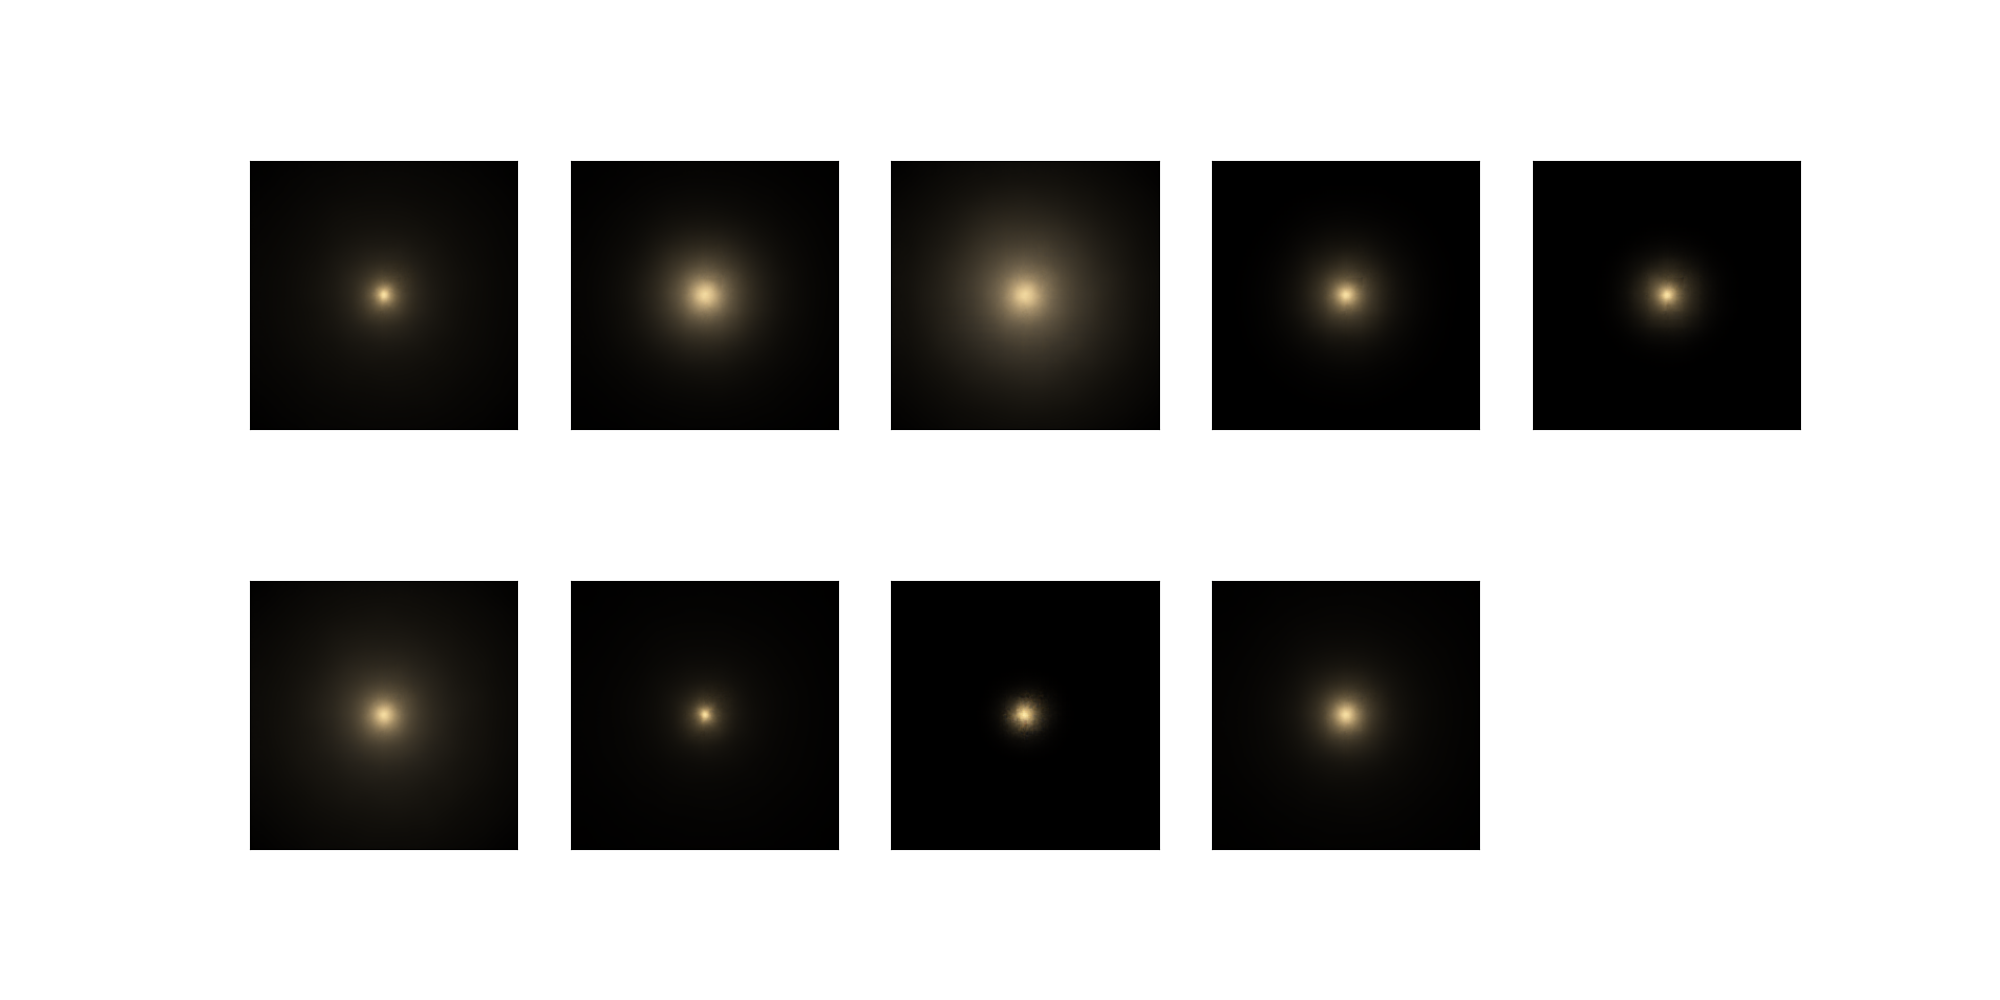
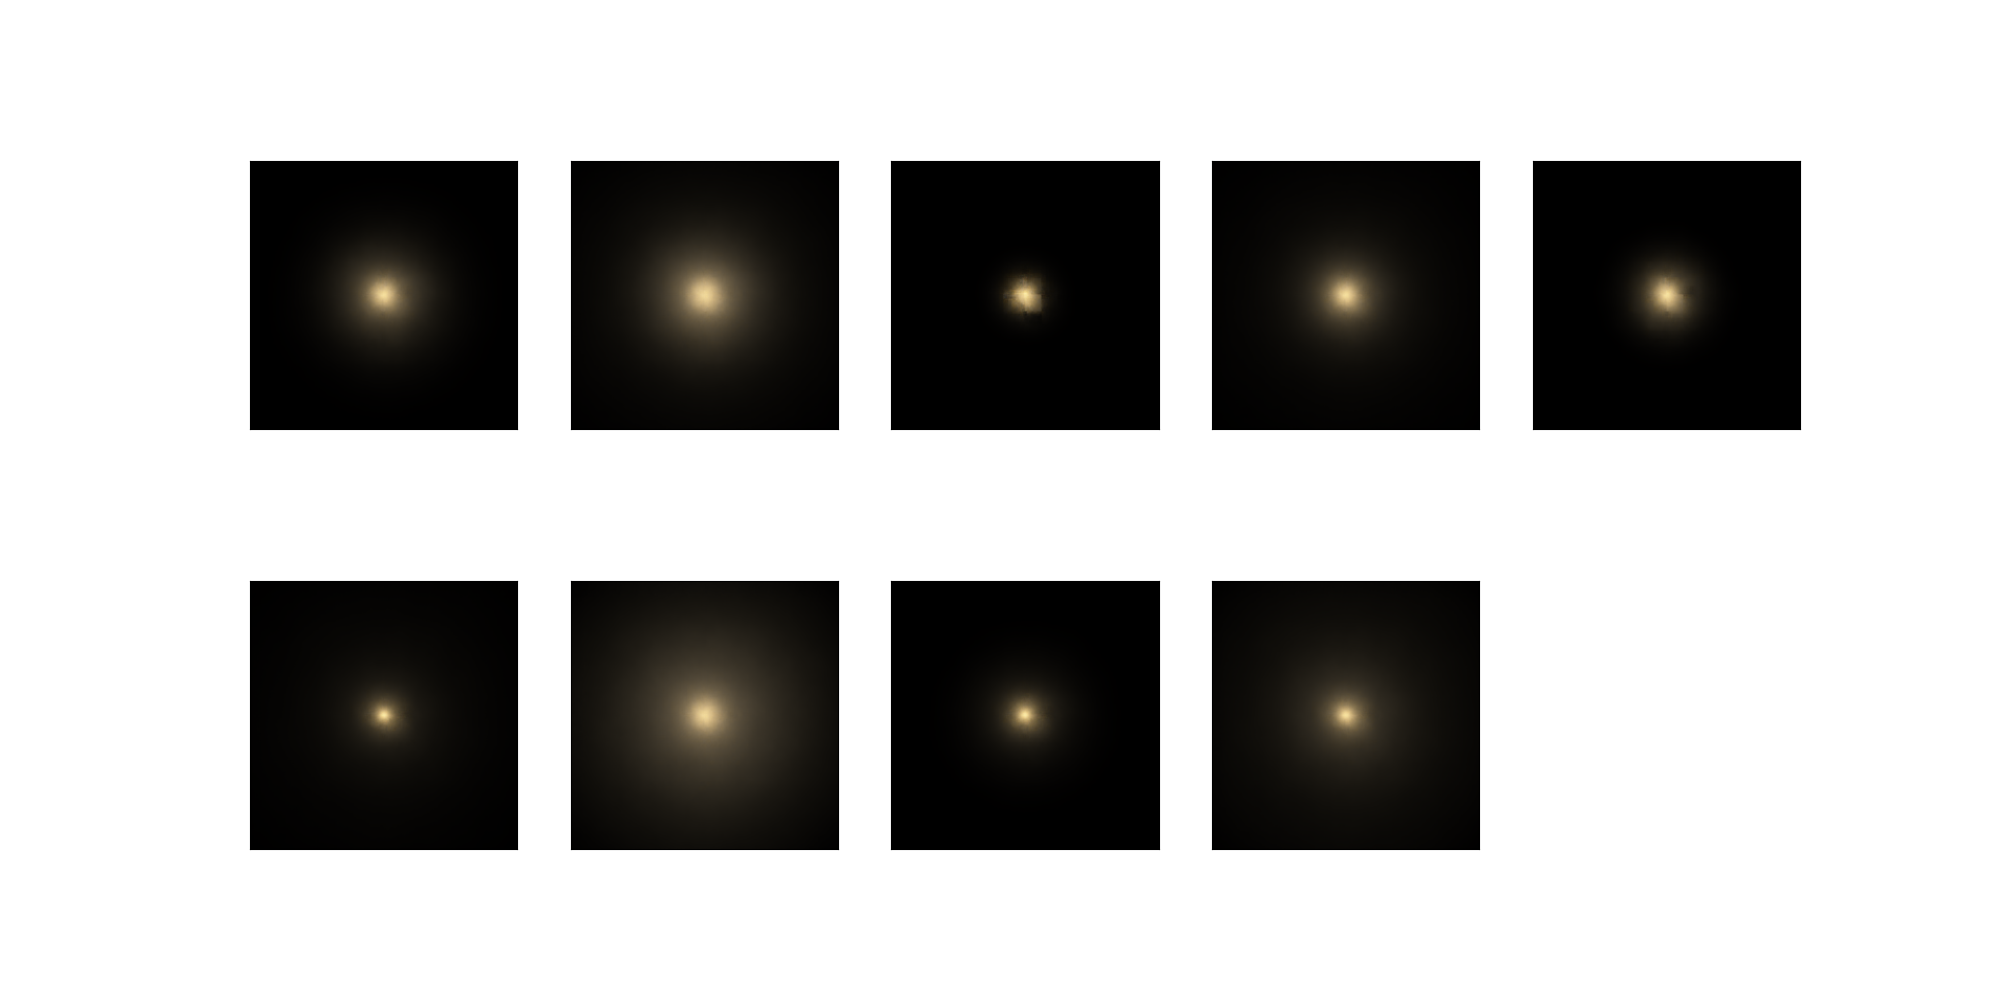
Code

diff --git a/property_comparison.py b/property_comparison.py
@@ -1,6 +1,6 @@
 import numpy as np
 from matplotlib import pyplot as plt
-# import seaborn as sns
+import seaborn as sns
 import pandas as pd
 # from tensorflow.keras.layers import Conv2D, Conv2DTranspose, MaxPooling2D, UpSampling2D, Dense, Flatten, Reshape
 # import keras
@@ -16,35 +16,35 @@ all_images = []
 # load the supplemental file into a dataframe
 df = pd.read_csv("stab3510_supplemental_file/table1.csv", comment="#")
 
-print(df.shape)
+# print(df.shape)
 
-# loop through each galaxy in the supplmental file
-for i, galaxy in enumerate(df["GalaxyID"].tolist()):
-
-    filename = "galface_" + str(galaxy) + ".png"
-
-    image = mpimg.imread("/cosma7/data/Eagle/web-storage/RefL0100N1504_Subhalo/" + filename)
-    all_images.append(image)
-
-
-print(np.array(all_images).shape)
-
-
-
-
-
-
-# # # load the extracted features
-# extracted_features = np.load("Features/9_features_new.npy")
+# # loop through each galaxy in the supplmental file
+# for i, galaxy in enumerate(df["GalaxyID"].tolist()):
+#
+#     filename = "galface_" + str(galaxy) + ".png"
+#
+#     image = mpimg.imread("/cosma7/data/Eagle/web-storage/RefL0100N1504_Subhalo/" + filename)
+#     all_images.append(image)
 #
 #
-# extracted_features = np.flipud(np.rot90(extracted_features))
-#
-# print(extracted_features.shape)
+# print(np.array(all_images).shape)
 
-# # load the two excel files into dataframes
-# df1 = pd.read_csv("stab3510_supplemental_file/table1.csv", comment="#")
-# df2 = pd.read_csv("stab3510_supplemental_file/table2.csv", comment="#")
+
+
+
+
+
+# load the extracted features
+extracted_features = np.load("Features/9_features_new.npy")
+
+
+extracted_features = np.flipud(np.rot90(extracted_features))
+
+print(extracted_features.shape)
+
+# load the two excel files into dataframes
+df1 = pd.read_csv("stab3510_supplemental_file/table1.csv", comment="#")
+df2 = pd.read_csv("stab3510_supplemental_file/table2.csv", comment="#")
 
 
 
@@ -66,22 +66,24 @@ print(np.array(all_images).shape)
 
 
 
-# ab_magnitude = df1["galfit_mag"]
-# mass = df2["galfit_lmstar"]
-# semi_major = (df1["galfit_re"] + df2["galfit_re"]) / 2
-# sersic = (df1["galfit_n"] + df2["galfit_n"]) / 2
-# axis_ratio = (df1["galfit_q"] + df2["galfit_q"]) / 2
-# position_angle = (df1["galfit_PA"] + df2["galfit_PA"]) / 2
-#
-#
-#
-#
-# # load the extracted features
-# extracted_features = np.load("Features/9_features_new.npy")
-#
-# # k means clustering for the extracted features
-# kmeans = KMeans(n_clusters=9, random_state=0, n_init='auto')
-# clusters = kmeans.fit_predict(extracted_features)
+ab_magnitude = df1["galfit_mag"]
+mass = df2["galfit_lmstar"]
+semi_major = (df1["galfit_re"] + df2["galfit_re"]) / 2
+sersic = (df1["galfit_n"] + df2["galfit_n"]) / 2
+axis_ratio = (df1["galfit_q"] + df2["galfit_q"]) / 2
+position_angle = (df1["galfit_PA"] + df2["galfit_PA"]) / 2
+
+
+
+
+
+
+# k means clustering for the extracted features
+kmeans = KMeans(n_clusters=9, random_state=0, n_init='auto')
+clusters = kmeans.fit_predict(extracted_features)
+
+print(clusters.shape)
+print(clusters)
 
 
 
@@ -91,7 +93,7 @@ print(np.array(all_images).shape)
 
 
 # print(df)
-#
+
 # kws = dict(s=5, linewidth=0)
 #
 # sns.pairplot(df, corner=True, hue="Category", plot_kws=kws, palette="colorblind")
@@ -103,30 +105,32 @@ print(np.array(all_images).shape)
 
 
 
-# fig, axs = plt.subplots(6, 9, figsize=(25,20))
-#
-# for i in range(0, 9):
-#
-#     title = "Feature " + str(i+1)
-#     axs[0, i].set_title(title)
-#
-#     axs[0, i].scatter(extracted_features[i], ab_magnitude, s=2, hue=clusters)
-#     axs[1, i].scatter(extracted_features[i], mass, s=2, hue=clusters)
-#     axs[2, i].scatter(extracted_features[i], semi_major, s=2, hue=clusters)
-#     axs[3, i].scatter(extracted_features[i], sersic, s=2, hue=clusters)
-#     axs[4, i].scatter(extracted_features[i], axis_ratio, s=2, hue=clusters)
-#     axs[5, i].scatter(extracted_features[i], position_angle, s=2, hue=clusters)
-#
-# axs[0, 0].set_ylabel("AB Magnitude")
-# axs[1, 0].set_ylabel("Stellar Mass")
-# axs[2, 0].set_ylabel("Semi-Major Axis")
-# axs[3, 0].set_ylabel("Sersic Index")
-# axs[4, 0].set_ylabel("Axis Ratio")
-# axs[5, 0].set_ylabel("Position Angle")
-#
-#
-# plt.savefig("Plots/9_feature_property_comparison_clusters")
-# plt.show()
+fig, axs = plt.subplots(6, 9, figsize=(25,20))
+
+for i in range(0, 9):
+
+    title = "Feature " + str(i+1)
+    axs[0, i].set_title(title)
+
+    sns.scatterplot(ax=axs[0, i], x=extracted_features[i], y=ab_magnitude)
+
+    # axs[0, i].scatter(extracted_features[i], ab_magnitude, s=2)
+    # axs[1, i].scatter(extracted_features[i], mass, s=2)
+    # axs[2, i].scatter(extracted_features[i], semi_major, s=2)
+    # axs[3, i].scatter(extracted_features[i], sersic, s=2)
+    # axs[4, i].scatter(extracted_features[i], axis_ratio, s=2)
+    # axs[5, i].scatter(extracted_features[i], position_angle, s=2)
+
+axs[0, 0].set_ylabel("AB Magnitude")
+axs[1, 0].set_ylabel("Stellar Mass")
+axs[2, 0].set_ylabel("Semi-Major Axis")
+axs[3, 0].set_ylabel("Sersic Index")
+axs[4, 0].set_ylabel("Axis Ratio")
+axs[5, 0].set_ylabel("Position Angle")
+
+
+plt.savefig("Plots/9_feature_property_comparison_clusters")
+plt.show()
 
 
 

diff --git a/k_clustering.py b/k_clustering.py
@@ -72,80 +72,82 @@ extracted_features = np.load("Features/9_features_new.npy")
 kmeans = KMeans(n_clusters=9, random_state=0, n_init='auto')
 clusters = kmeans.fit_predict(extracted_features)
 
+print(clusters)
+print(clusters.shape)
 
 
 
 
-centers = kmeans.cluster_centers_
-# print(centers)
-
-for center in centers:
-    print(center)
-
-# print(centers[0])
-
-reconstructions = decoder.predict(centers)
-
-print(reconstructions[0])
-
-# create figure to hold subplots
-fig, axs = plt.subplots(2, 5, figsize=(20,10))
-
-axs[0, 0].imshow(reconstructions[0])
-axs[0, 0].get_xaxis().set_visible(False)
-axs[0, 0].get_yaxis().set_visible(False)
-
-axs[0, 1].imshow(reconstructions[1])
-axs[0, 1].get_xaxis().set_visible(False)
-axs[0, 1].get_yaxis().set_visible(False)
-
-axs[0, 2].imshow(reconstructions[2])
-axs[0, 2].get_xaxis().set_visible(False)
-axs[0, 2].get_yaxis().set_visible(False)
-
-axs[0, 3].imshow(reconstructions[3])
-axs[0, 3].get_xaxis().set_visible(False)
-axs[0, 3].get_yaxis().set_visible(False)
-
-axs[0, 4].imshow(reconstructions[4])
-axs[0, 4].get_xaxis().set_visible(False)
-axs[0, 4].get_yaxis().set_visible(False)
-
-axs[1, 0].imshow(reconstructions[5])
-axs[1, 0].get_xaxis().set_visible(False)
-axs[1, 0].get_yaxis().set_visible(False)
-
-axs[1, 1].imshow(reconstructions[6])
-axs[1, 1].get_xaxis().set_visible(False)
-axs[1, 1].get_yaxis().set_visible(False)
-
-axs[1, 2].imshow(reconstructions[7])
-axs[1, 2].get_xaxis().set_visible(False)
-axs[1, 2].get_yaxis().set_visible(False)
-
-axs[1, 3].imshow(reconstructions[8])
-axs[1, 3].get_xaxis().set_visible(False)
-axs[1, 3].get_yaxis().set_visible(False)
-
-axs[1, 4].set_axis_off()
-
-
-plt.savefig("Plots/9_cluster_reconstruction_new")
-plt.show()
-
-
-
-
-# df = pd.DataFrame(extracted_features, columns=["f1", "f2", "f3", "f4", "f5", "f6", "f7", "f8", "f9"])
-# df["Category"] = clusters
+# centers = kmeans.cluster_centers_
+# # print(centers)
+#
+# for center in centers:
+#     print(center)
+#
+# # print(centers[0])
+#
+# reconstructions = decoder.predict(centers)
+#
+# print(reconstructions[0])
+#
+# # create figure to hold subplots
+# fig, axs = plt.subplots(2, 5, figsize=(20,10))
+#
+# axs[0, 0].imshow(reconstructions[0])
+# axs[0, 0].get_xaxis().set_visible(False)
+# axs[0, 0].get_yaxis().set_visible(False)
+#
+# axs[0, 1].imshow(reconstructions[1])
+# axs[0, 1].get_xaxis().set_visible(False)
+# axs[0, 1].get_yaxis().set_visible(False)
+#
+# axs[0, 2].imshow(reconstructions[2])
+# axs[0, 2].get_xaxis().set_visible(False)
+# axs[0, 2].get_yaxis().set_visible(False)
+#
+# axs[0, 3].imshow(reconstructions[3])
+# axs[0, 3].get_xaxis().set_visible(False)
+# axs[0, 3].get_yaxis().set_visible(False)
+#
+# axs[0, 4].imshow(reconstructions[4])
+# axs[0, 4].get_xaxis().set_visible(False)
+# axs[0, 4].get_yaxis().set_visible(False)
+#
+# axs[1, 0].imshow(reconstructions[5])
+# axs[1, 0].get_xaxis().set_visible(False)
+# axs[1, 0].get_yaxis().set_visible(False)
+#
+# axs[1, 1].imshow(reconstructions[6])
+# axs[1, 1].get_xaxis().set_visible(False)
+# axs[1, 1].get_yaxis().set_visible(False)
+#
+# axs[1, 2].imshow(reconstructions[7])
+# axs[1, 2].get_xaxis().set_visible(False)
+# axs[1, 2].get_yaxis().set_visible(False)
+#
+# axs[1, 3].imshow(reconstructions[8])
+# axs[1, 3].get_xaxis().set_visible(False)
+# axs[1, 3].get_yaxis().set_visible(False)
+#
+# axs[1, 4].set_axis_off()
 #
 #
-# print(df)
-#
-# kws = dict(s=5, linewidth=0)
-#
-# sns.pairplot(df, corner=True, hue="Category", plot_kws=kws, palette="colorblind")
-#
-# plt.savefig("Plots/9_feature_clustering_new")
+# plt.savefig("Plots/9_cluster_reconstruction_new")
 # plt.show()
+
+
+
+
+df = pd.DataFrame(extracted_features, columns=["f1", "f2", "f3", "f4", "f5", "f6", "f7", "f8", "f9"])
+df["Category"] = clusters
+
+
+# print(df)
+
+kws = dict(s=5, linewidth=0)
+
+sns.pairplot(df, corner=True, hue="Category", plot_kws=kws, palette="colorblind")
+
+plt.savefig("Plots/9_feature_clustering_new")
+plt.show()
 

diff --git a/plot_autoencoder.py b/plot_autoencoder.py
@@ -11,7 +11,7 @@ os.environ['KMP_DUPLICATE_LIB_OK'] = 'True'
 
 
 # set the encoding dimension (number of extracted features)
-encoding_dim = 8
+encoding_dim = 9
 
 # Define keras tensor for the encoder
 input_image = keras.Input(shape=(256, 256, 3))                                                      # (256, 256, 3)
@@ -110,17 +110,17 @@ decoder.build(input_shape=(None, encoding_dim))
 autoencoder.compile(optimizer="adam", loss="binary_crossentropy")
 
 # load the weights
-autoencoder.load_weights("Weights/9_feature_weights.h5")
+autoencoder.load_weights("Weights/9_feature_weights_new.h5")
 
 
 
 
 # load the extracted features
-extracted_features = np.load("Features/8_features.npy")
+extracted_features = np.load("Features/9_features_new.npy")
 
 
 # add the features to a dataframe
-df = pd.DataFrame(extracted_features, columns=["f1", "f2", "f3", "f4", "f5", "f6", "f7", "f8"])
+df = pd.DataFrame(extracted_features, columns=["f1", "f2", "f3", "f4", "f5", "f6", "f7", "f8", "f9"])
 
 
 
@@ -151,5 +151,5 @@ plt.subplots_adjust(hspace=0.2)
 
 
 # save and display the plot
-plt.savefig("Plots/8_feature_histogram_comparison")
+plt.savefig("Plots/9_feature_histogram_comparison")
 plt.show()
